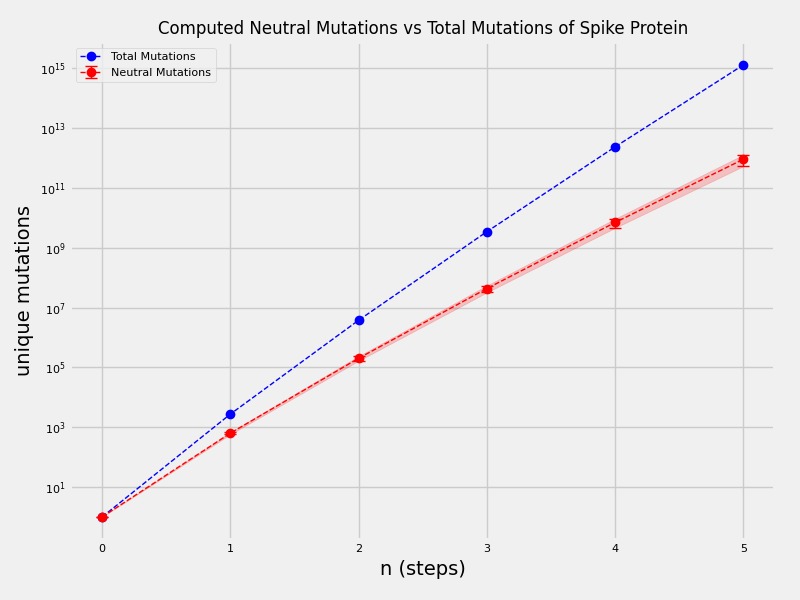
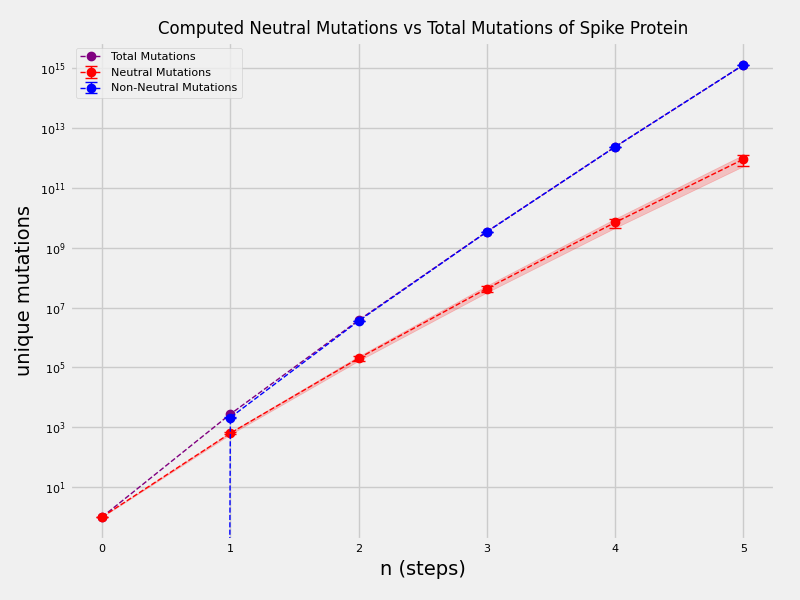
changing figure

diff --git a/neutral_calculations.py b/neutral_calculations.py
@@ -36,13 +36,16 @@ plot.set_yscale("log")
 
 plt.tight_layout()
 
-plot.plot(xs, total, marker="o", linestyle="dashed", linewidth=1, color="blue", label="Total Mutations")
+plot.plot(xs, total, marker="o", linestyle="dashed", linewidth=1, color="purple", label="Total Mutations")
 
 #plot.fill_between(xs, low_prob, high_prob, alpha=0.5, color="red")
 #plot.plot(xs, [(x+y)/2 for x,y in zip(low_prob, high_prob)], marker="o", linestyle="dashed", linewidth=1, color="red", label="Neutral Mutations")
 
+average = [(x+y)/2 for x,y in zip(low_prob, high_prob)]
+
 plot.fill_between(xs, low_prob, high_prob, alpha=0.2, color="red")
-plot.errorbar(xs, [(x+y)/2 for x,y in zip(low_prob, high_prob)], yerr=[(y-x)/2 for x,y in zip(low_prob, high_prob)], marker="o", capsize=4, linestyle="dashed", linewidth=1, color="red", label="Neutral Mutations")
+plot.errorbar(xs, average, yerr=[(y-x)/2 for x,y in zip(low_prob, high_prob)], marker="o", capsize=4, linestyle="dashed", linewidth=1, color="red", label="Neutral Mutations")
+plot.errorbar(xs, [x-y for x,y in zip(total, average)], yerr=[(y-x)/2 for x,y in zip(low_prob, high_prob)], marker="o", capsize=4, linestyle="dashed", linewidth=1, color="blue", label="Non-Neutral Mutations")
 
 plot.legend(loc="upper left")
 
